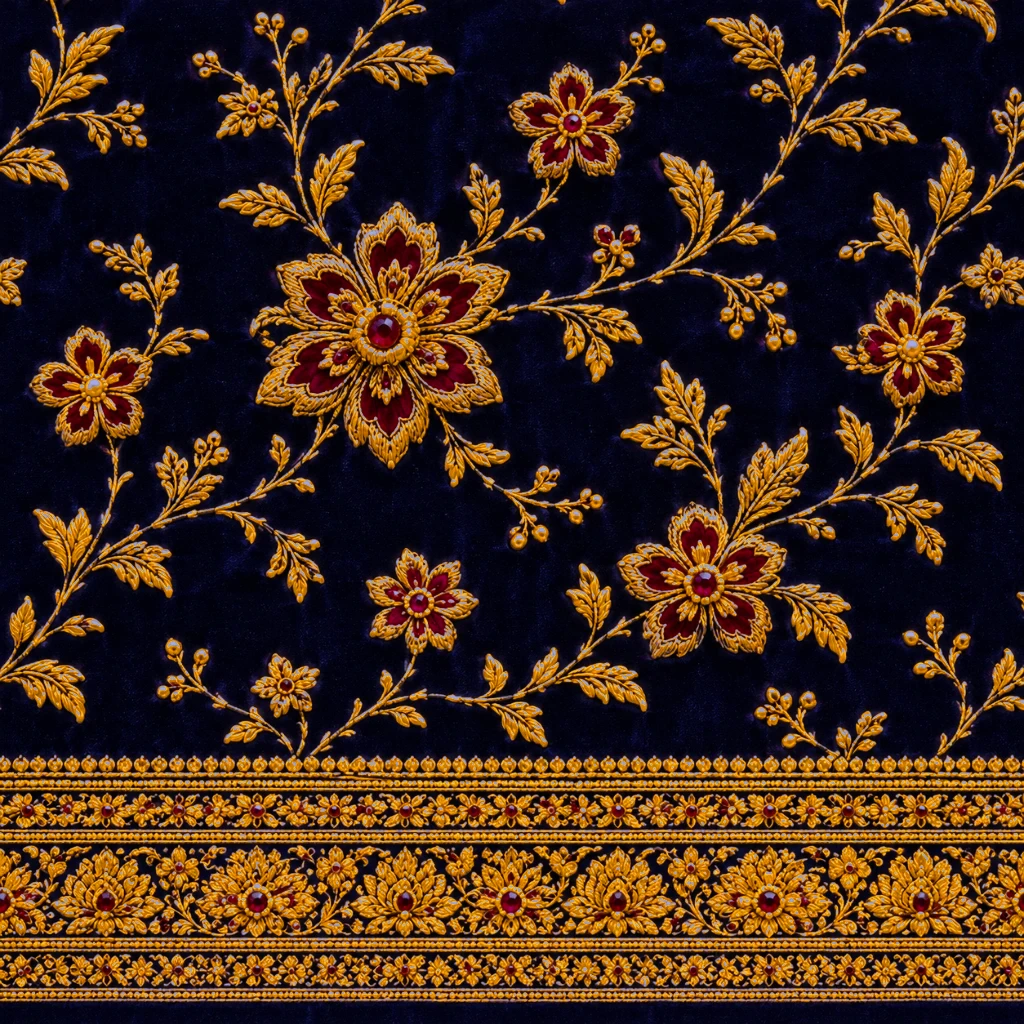
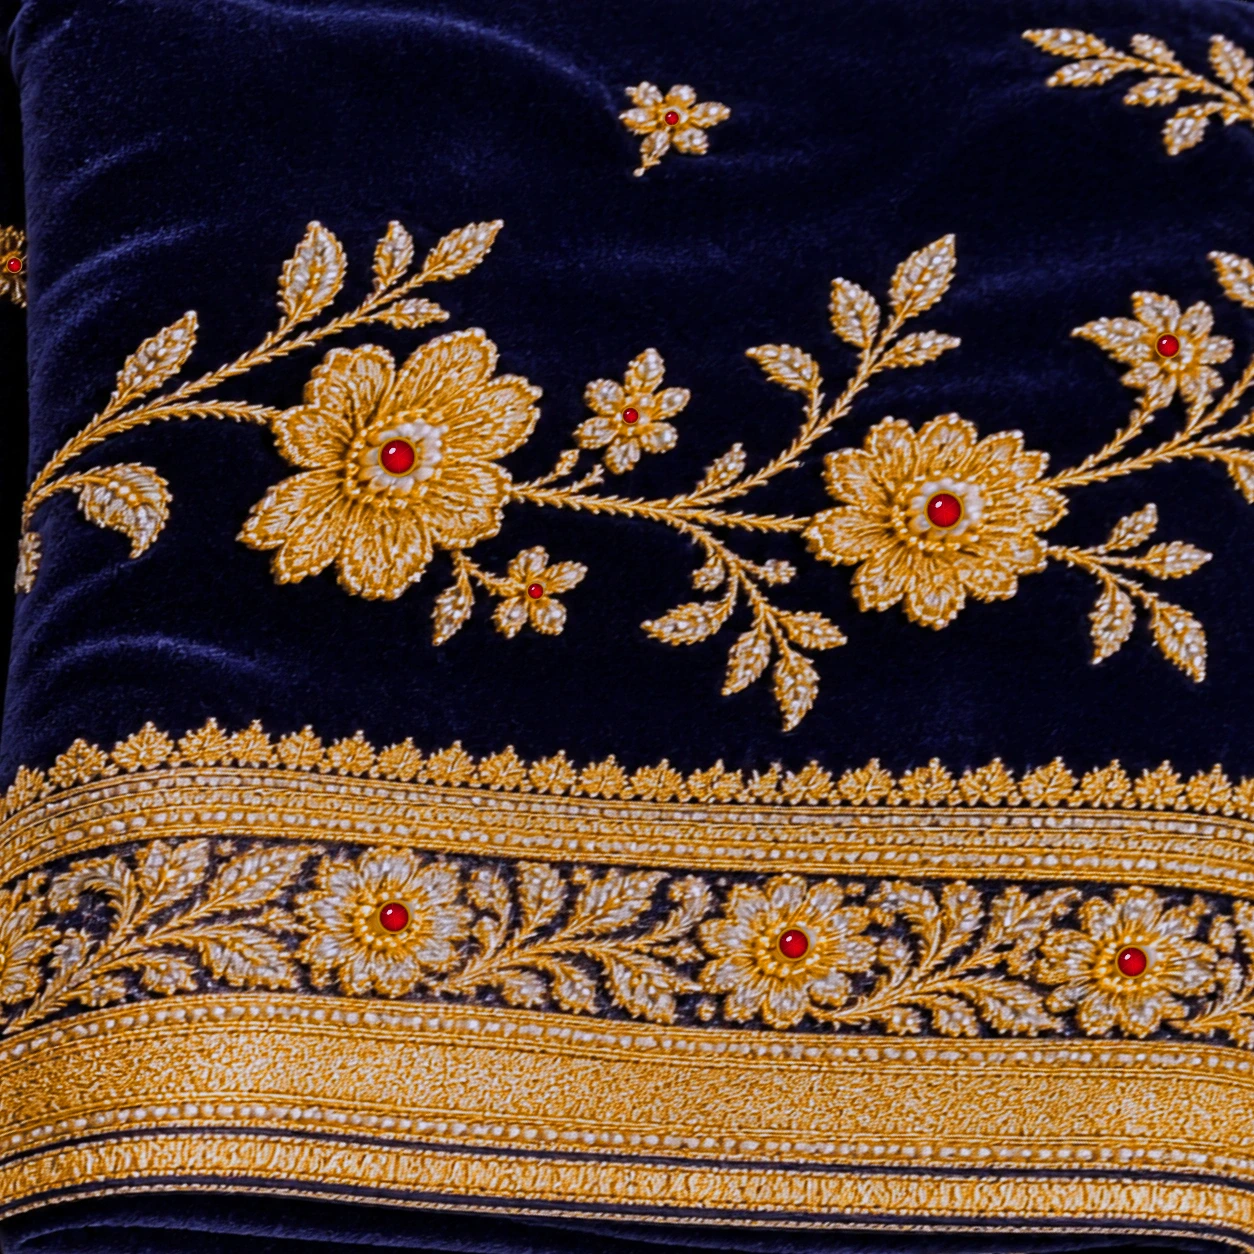
Rebuild the navy saree top from its cut-out with red gem flower centres

diff --git a/src/components/drape/data.ts b/src/components/drape/data.ts
@@ -32,7 +32,7 @@ export interface Saree {
 export const SAREES: Saree[] = [
   { id: 'maroon', name: 'Banarasi Maroon', fabric: 'Pure silk · gold zari', note: 'Woven buttas and a heavy brocade border — made for the wedding day.', tags: ['Silk', 'Bridal', 'Festive'], sheen: '#ffb38a', tint: '#f7c4cc', roughness: 0.48, zari: 1, weave: 'silk', shape: { h: 0.4, hollow: 0.1, rim: 0.1, ridge: 0.032, layers: 6.5, wave: 0.024 } },
   { id: 'ivory', name: 'Ivory Organza', fabric: 'Organza · resham florals', note: 'Featherlight, with hand-embroidered pink blooms and a gota border.', tags: ['Organza', 'Bridal'], sheen: '#fff1e2', tint: '#ffffff', roughness: 0.42, zari: 0.9, weave: 'organza', shape: { h: 0.34, hollow: 0.14, rim: 0.13, ridge: 0.036, layers: 5, wave: 0.034 } },
-  { id: 'navy', name: 'Midnight Velvet', fabric: 'Velvet · zardozi', note: 'Deep navy pile with raised gold zardozi and ruby stones.', tags: ['Velvet', 'Festive'], sheen: '#5d6bd6', tint: '#a3abf2', roughness: 0.85, zari: 1, weave: 'velvet', shape: { h: 0.42, hollow: 0.09, rim: 0.1, ridge: 0.03, layers: 7, wave: 0.02 } },
+  { id: 'navy', name: 'Midnight Velvet', fabric: 'Velvet · zardozi', note: 'Deep navy pile with raised gold zardozi and ruby stones.', tags: ['Velvet', 'Festive'], sheen: '#5d6bd6', tint: '#dcdfff', roughness: 0.85, zari: 1, weave: 'velvet', shape: { h: 0.42, hollow: 0.09, rim: 0.1, ridge: 0.03, layers: 7, wave: 0.02 } },
   { id: 'black', name: 'Noir Silk', fabric: 'Silk · crimson resham', note: 'Black silk with crimson and gold florals for evening occasions.', tags: ['Silk', 'Festive'], sheen: '#ffd2b0', tint: '#dcdce2', roughness: 0.46, zari: 1, weave: 'silk', shape: { h: 0.38, hollow: 0.11, rim: 0.11, ridge: 0.033, layers: 6, wave: 0.028 } },
   { id: 'yellow', name: 'Haldi Organza', fabric: 'Organza · chikan', note: 'Sunlit yellow with ivory thread florals — a haldi favourite.', tags: ['Organza', 'Festive'], sheen: '#fff4c8', tint: '#fff2d8', roughness: 0.42, zari: 0.15, weave: 'organza', shape: { h: 0.36, hollow: 0.13, rim: 0.12, ridge: 0.035, layers: 5.5, wave: 0.03 } }
 ];

diff --git a/CLAUDE.md b/CLAUDE.md
@@ -258,6 +258,7 @@ Owner request: append an entry here after every change session.
 - **2026‑11‑05** — Owner: align the compact navbar items on one centre line. In solid mode the header is `items-center` (equal `pt-3 pb-3`), links/menu have no top offset, so logo, links and hamburger share the bar's vertical centre (bar ≈79 px). Hero layout unchanged.
 - **2026‑11‑05** — Owner: golds look washed out; reds/pinks too. `bake-drape-maps.mjs` now adds a **vibrance** pass after the tint: gold zari pixels (`goldness` mask) get saturation ×(1+0.7) and drift 35 % toward a true gold hue (≈42°); red/pink pixels (hue 316–360 & 0–16°, sat > 0.26) get ×(1+0.45); silk grounds and creams are untouched. Re-baked all `public/drape/{top,edge}-*-col.webp`. Tune `GOLD_SAT` / `RED_SAT` in the script and re-run it. Zari metalness/roughness maps unchanged.
 - **2026‑11‑05** — Owner: make the black saree match `assets/Transparent cut-outs…/Black Silk Saree with Gold Zari Embroidery.png` (black ground, crimson florals, gold sprigs, crimson + gold border). Rectified that photo's top face to a flat 1254² texture with a homography warp (quad corners in image px: (118,444) (690,25) (1450,470) (892,962) → TL,TR,BR,BL; border ends at the bottom/front) and installed it as `public/drape/top-black.webp`; the old black top texture (`Black Silk Brocade with Crimson Florals.png`) is still in `assets/`. Black tint `#5a5c66` → `#dcdce2` (the old tint was darkening the reds to brown); re-baked. Edge texture unchanged. If liked, repeat for the other four sarees from their cut-outs.
+- **2026‑11‑05** — Owner: navy saree to match `Embroidered Navy Velvet Saree Fold.png`, with **red gems in every flower centre** (like `assets/saree-textures/5th Navy Silk…`). Same method as the black saree: homography-rectified the cut-out's top face (corners (98,432) (690,15) (1470,478) (888,968)), then painted ten ruby cabochons (gold bezel, dark socket, facets, white glint) over the pearl centres at hand-picked positions (radius 4–10 px at 700 px scale) → `public/drape/top-navy.webp`. Navy tint `#a3abf2` → `#dcdfff` so the rubies stay red; re-baked. Edge texture unchanged.
 
 ## Next / ideas
 
